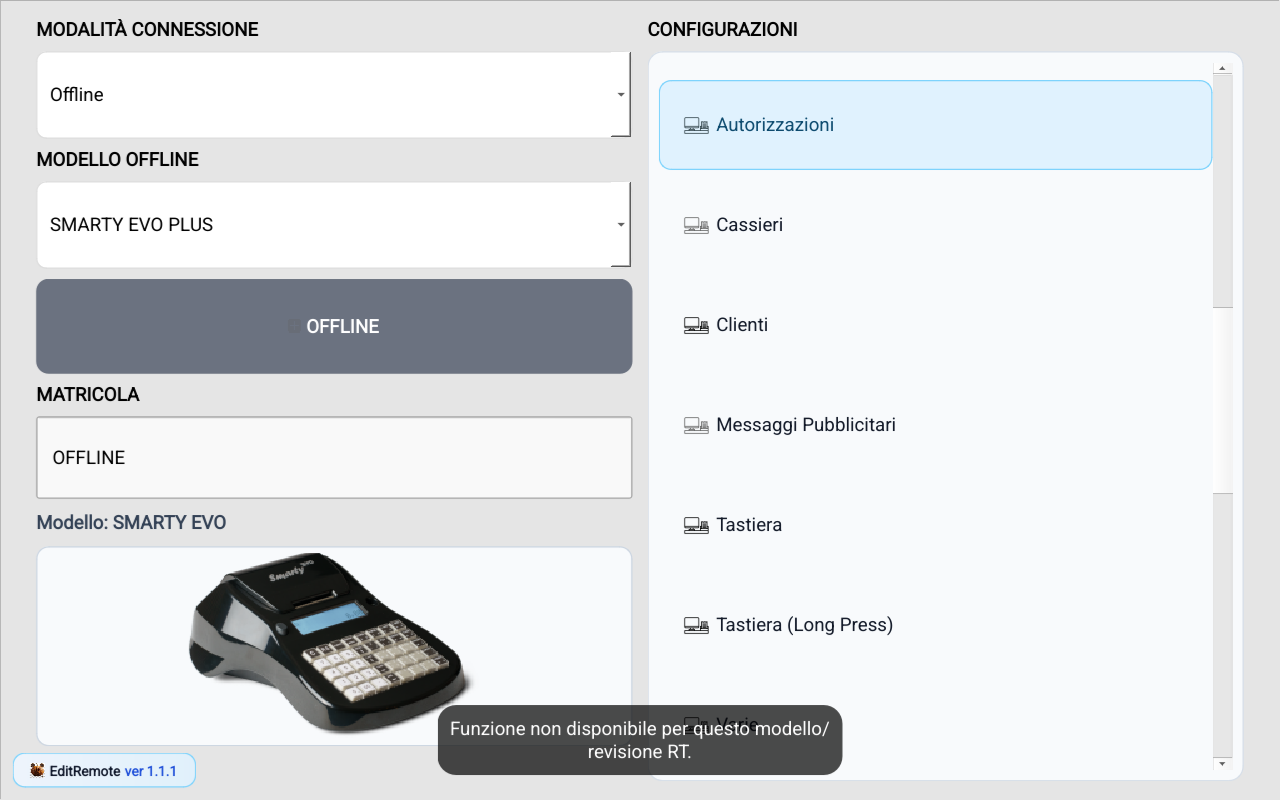
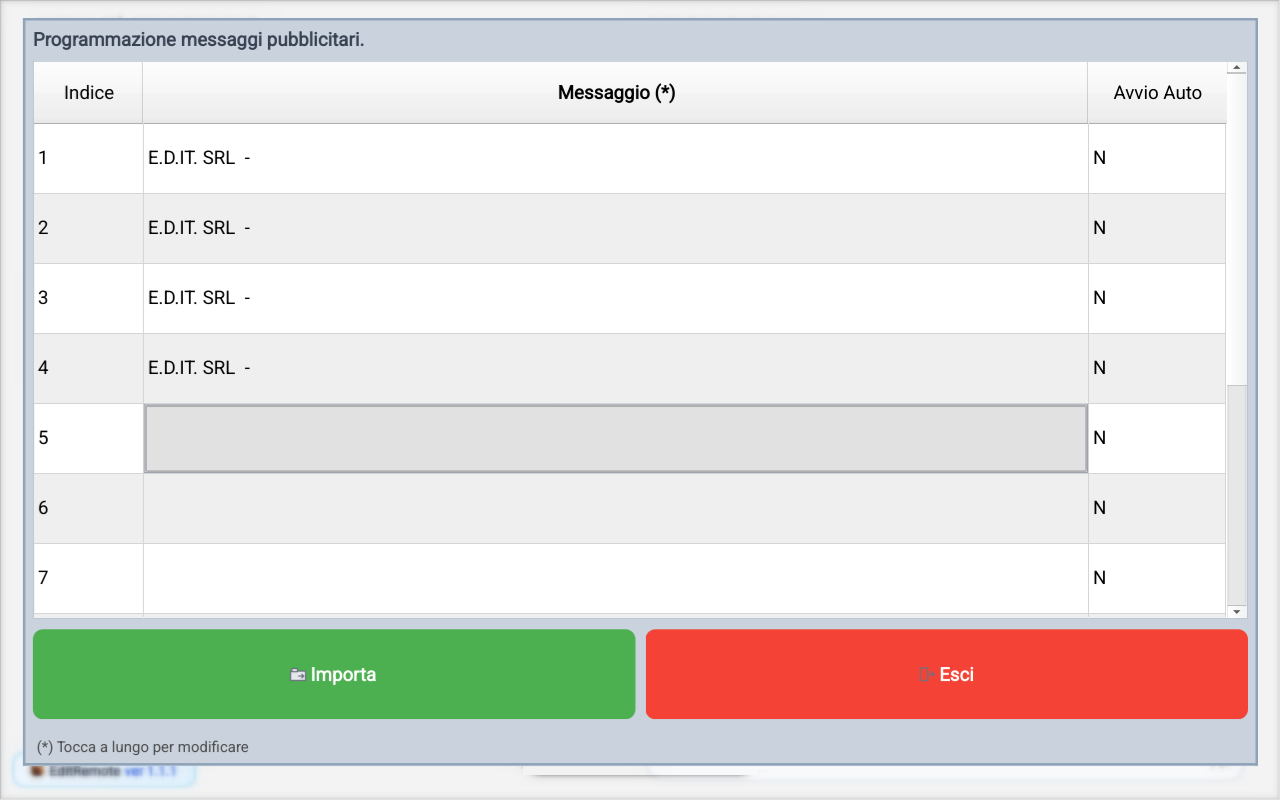
Aggiorna guida Messaggi pubblicitari: significato campi e nuovo screenshot

diff --git a/impostazioni_messaggi_pubblicitari.html b/impostazioni_messaggi_pubblicitari.html
@@ -246,6 +246,14 @@
           <li>Applica solo le modifiche necessarie.</li>
           <li>Salva e verifica l'esito operativo.</li>
         </ol>
+
+        <h6>Significato campi</h6>
+        <ul>
+          <li><strong>Indice</strong>: numero progressivo del messaggio pubblicitario.</li>
+          <li><strong>Messaggio</strong>: testo del messaggio che viene mostrato in rotazione sul display cliente.</li>
+          <li><strong>Avvio Auto</strong>: indica se il messaggio parte automaticamente (<strong>S</strong>) oppure no (<strong>N</strong>).</li>
+        </ul>
+
         <h6>Controlli finali consigliati</h6>
         <ul>
           <li>Conferma su cassa dei valori programmati.</li>
